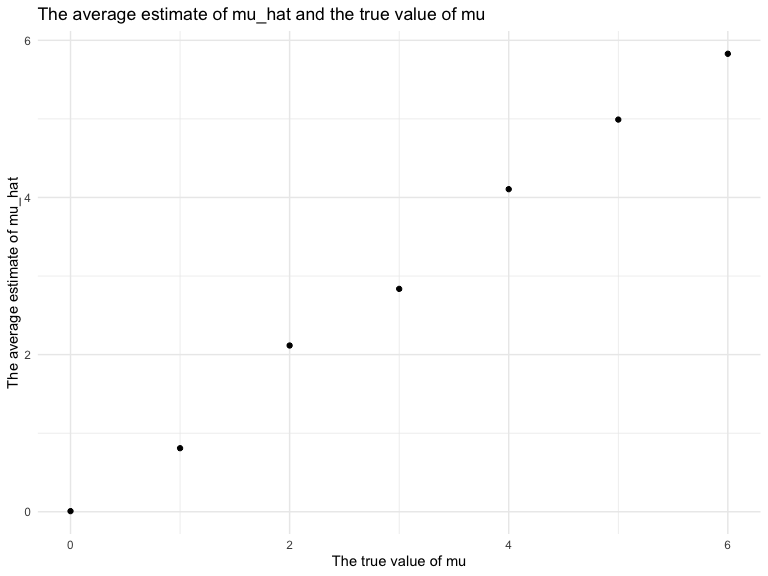
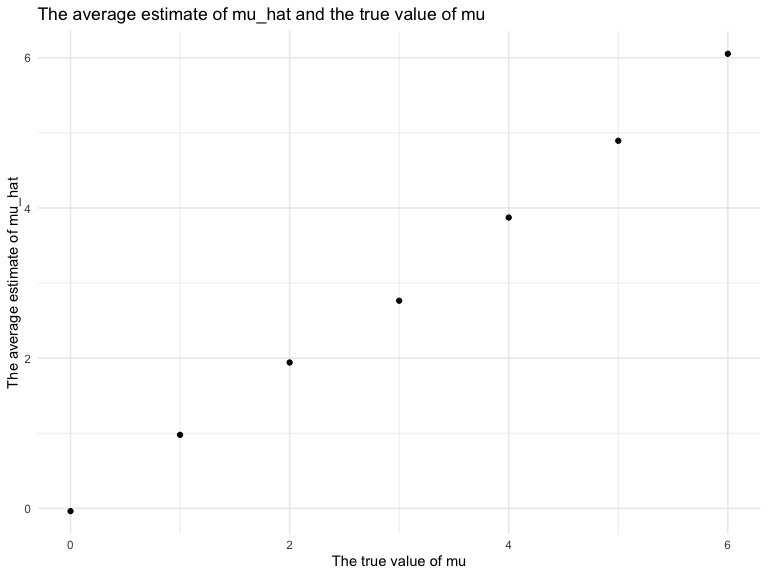
Create plot of the average estimate of mu_hat only in samples for which the null was rejectedand the true value of mu.

diff --git a/p8105_hw5_yc4016.md b/p8105_hw5_yc4016.md
@@ -197,16 +197,16 @@ norm_results
     ## # A tibble: 700 × 10
     ##       mu iterat…¹ estim…² stati…³ p.value param…⁴ conf.…⁵ conf.…⁶ method alter…⁷
     ##    <dbl>    <int>   <dbl>   <dbl>   <dbl>   <dbl>   <dbl>   <dbl> <chr>  <chr>  
-    ##  1     0        1 -0.416  -0.498   0.622       29  -2.12   1.29   One S… two.si…
-    ##  2     0        2 -0.266  -0.270   0.789       29  -2.28   1.75   One S… two.si…
-    ##  3     0        3 -0.0301 -0.0298  0.976       29  -2.09   2.03   One S… two.si…
-    ##  4     0        4  0.103   0.118   0.907       29  -1.69   1.89   One S… two.si…
-    ##  5     0        5 -1.36   -1.29    0.206       29  -3.50   0.790  One S… two.si…
-    ##  6     0        6 -1.28   -1.66    0.108       29  -2.87   0.300  One S… two.si…
-    ##  7     0        7  0.580   0.681   0.501       29  -1.16   2.32   One S… two.si…
-    ##  8     0        8 -0.114  -0.113   0.910       29  -2.16   1.94   One S… two.si…
-    ##  9     0        9  1.49    1.52    0.140       29  -0.519  3.50   One S… two.si…
-    ## 10     0       10 -1.62   -2.14    0.0407      29  -3.16  -0.0729 One S… two.si…
+    ##  1     0        1  -0.580 -0.990   0.331       29  -1.78    0.619 One S… two.si…
+    ##  2     0        2  -0.131 -0.149   0.883       29  -1.93    1.67  One S… two.si…
+    ##  3     0        3   0.105  0.0924  0.927       29  -2.21    2.42  One S… two.si…
+    ##  4     0        4  -2.08  -2.36    0.0255      29  -3.89   -0.275 One S… two.si…
+    ##  5     0        5  -1.22  -1.10    0.280       29  -3.48    1.04  One S… two.si…
+    ##  6     0        6   0.812  0.793   0.434       29  -1.28    2.91  One S… two.si…
+    ##  7     0        7  -0.662 -0.710   0.484       29  -2.57    1.25  One S… two.si…
+    ##  8     0        8  -0.582 -0.683   0.500       29  -2.32    1.16  One S… two.si…
+    ##  9     0        9  -0.551 -0.640   0.527       29  -2.31    1.21  One S… two.si…
+    ## 10     0       10   1.47   1.52    0.139       29  -0.503   3.44  One S… two.si…
     ## # … with 690 more rows, and abbreviated variable names ¹iteration, ²estimate,
     ## #   ³statistic, ⁴parameter, ⁵conf.low, ⁶conf.high, ⁷alternative
 
@@ -230,7 +230,7 @@ plot1
 
 <img src="p8105_hw5_yc4016_files/figure-gfm/unnamed-chunk-8-1.png" width="90%" />
 
-#### Plot showing the average estimate of mu_hat and the true value of mu .
+#### Plot showing the average estimate of mu_hat and the true value of mu.
 
 ``` r
 plot2 = 
@@ -246,4 +246,21 @@ plot2
 ```
 
 <img src="p8105_hw5_yc4016_files/figure-gfm/unnamed-chunk-9-1.png" width="90%" />
-\`\`\`
+
+#### Plot showing the average estimate of mu_hat only in samples for which the null was rejectedand the true value of mu.
+
+``` r
+plot3 = 
+  norm_results %>%
+    group_by(mu) %>%
+    filter(p.value < 0.05) %>% 
+    summarize(ave_estimate_mu_hat = mean(estimate)) %>%
+    ggplot(aes(x = mu, y = ave_estimate_mu_hat, group = mu)) + 
+    geom_point() + 
+    labs(title = "The average estimate of mu_hat and the true value of mu", 
+         x = "The true value of mu", 
+         y = "The average estimate of mu_hat only in samples for which the null was rejected") 
+plot3
+```
+
+<img src="p8105_hw5_yc4016_files/figure-gfm/unnamed-chunk-10-1.png" width="90%" />
